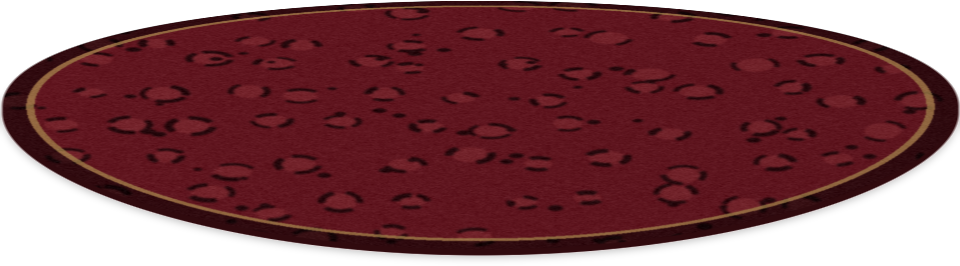
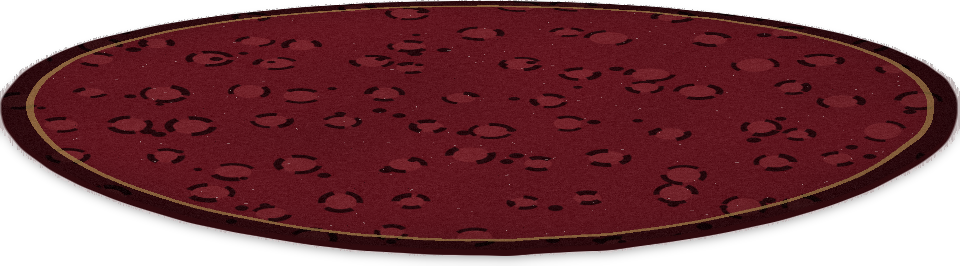
Teppich realistischer: Schattierung, Staub, unregelmäßige Kante, Kontaktschatten, scharf
Claude-Session: https://claude.ai/code/session_01Us4jXEkPhXfZq9Lfh4wYsq

diff --git a/scripts/leopard_rug.py b/scripts/leopard_rug.py
@@ -42,7 +42,7 @@ for gy in range(-1, TH * S // step + 2):
             px, py = cx + rng.uniform(-step / 2, step / 2), cy + rng.uniform(-step / 2, step / 2)
             pr = rng.uniform(3, 6) * S
             d.ellipse((px - pr * 1.3, py - pr, px + pr * 1.3, py + pr), fill=tuple(ring.astype(int)))
-img = img.filter(ImageFilter.GaussianBlur(1.4 * S)).resize((TW, TH), Image.LANCZOS)
+img = img.filter(ImageFilter.GaussianBlur((1.4 if SHAPE == 'runner' else 0.5) * S)).resize((TW, TH), Image.LANCZOS)
 a = np.asarray(img).astype(float)
 # Flor: feines, leicht gerichtetes Rauschen
 fur = ndimage.gaussian_filter(rng.normal(0, 1, (TH, TW)), (0.6, 1.4)) * 7
@@ -50,17 +50,40 @@ a += fur[..., None]
 # Einfassung
 yy, xx = np.mgrid[0:TH, 0:TW]
 if SHAPE == "oval":
-    # Abstand zum Ovalrand in Pixeln (nah genug für schmale Bänder)
+    # Abstand zum Ovalrand, leicht unregelmäßig wie ein echter, benutzter Teppich
     nx, ny = (xx - TW / 2) / (TW / 2), (yy - TH / 2) / (TH / 2)
     rr = np.sqrt(nx**2 + ny**2)
-    edge = (1 - rr) * TH / 2
-    gold = ((edge > 16) & (edge < 21)).astype(float)  # feine goldene Linie, sehr dezent
+    wobble = ndimage.gaussian_filter(rng.normal(0, 1, (TH, TW)), 14) * 20
+    edge = (1 - rr) * TH / 2 + wobble
+    gold = ((edge > 16) & (edge < 20.5)).astype(float)  # feine goldene Linie, sehr dezent
     dark = (edge < 16).astype(float)
     a = a * (1 - dark[..., None] * 0.5)
     gcol = np.array([176, 142, 82.0])
     a = a * (1 - gold[..., None] * 0.75) + gcol * gold[..., None] * 0.75
-    # Flor: Kanten des Musters etwas weicher, mehr Struktur
-    a = ndimage.gaussian_filter(a, (0.8, 0.8, 0)) + ndimage.gaussian_filter(rng.normal(0, 1, (TH, TW)), (0.5, 0.9))[..., None] * 6
+    # Schattierung: zum Rand hin dunkler (Flor kippt), großflächige Ton-Unterschiede
+    ao = np.clip(1 - edge / 70, 0, 1) ** 2
+    a *= (1 - 0.14 * ao)[..., None]
+    tone = ndimage.gaussian_filter(rng.normal(0, 1, (TH, TW)), 40) * 40
+    a *= (1 + 0.05 * tone)[..., None]
+    # Gebrauchsspuren: Staub und Fusseln hell, ein paar dunkle Krümel, alles winzig und scharf
+    inside = edge > 22
+    for _ in range(int(TW * TH / 1200)):
+        y0, x0 = rng.integers(0, TH), rng.integers(0, TW)
+        if not inside[y0, x0]:
+            continue
+        if rng.random() < 0.75:
+            ln = rng.integers(1, 5)
+            ang = rng.uniform(0, np.pi)
+            for t in range(ln):
+                yy0 = int(y0 + np.sin(ang) * t); xx0 = int(x0 + np.cos(ang) * t)
+                if 0 <= yy0 < TH and 0 <= xx0 < TW:
+                    a[yy0, xx0] = a[yy0, xx0] * 0.45 + np.array([215, 205, 200.0]) * 0.55
+        else:
+            a[y0, x0] *= 0.55
+    # Fransen-Andeutung: einzelne Fasern stehen über die Kante
+    fib = (edge > -2.5) & (edge < 0) & (rng.random((TH, TW)) < 0.35)
+    edge = np.where(fib, 0.6, edge)
+    a = a + rng.normal(0, 1, (TH, TW))[..., None] * 5  # Flor, fein und scharf
 else:
     edge = np.minimum.reduce([yy, TH - 1 - yy, xx, TW - 1 - xx]).astype(float)
     band = (edge < 14).astype(float)
@@ -87,7 +110,7 @@ if SHAPE == "oval":
     for o in range(1, lip + 1):
         pad[o : o + D, :, :3] = np.where(al[..., None] > 0, np.array([48, 10, 14.0]), pad[o : o + D, :, :3])
         pad[o : o + D, :, 3] = np.maximum(pad[o : o + D, :, 3], rows[..., 3])
-    sh = ndimage.gaussian_filter(np.pad(al, ((lip + 2, 8), (0, 0)))[: D + lip + 10], 4) * 0.25
+    sh = ndimage.gaussian_filter(np.pad(al, ((lip + 2, 8), (0, 0)))[: D + lip + 10], 5) * 0.38
     out_a = np.zeros_like(pad)
     out_a[..., 3] = sh * 255
     for c in range(4):
